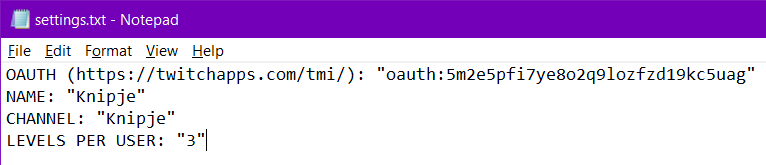
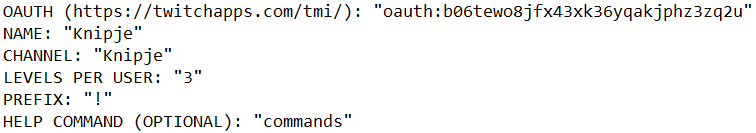
updated tutorial

diff --git a/index.html b/index.html
@@ -322,7 +322,7 @@
 				</div>
 				<div class="line" style="margin-top:-20px;"></div>
 				<p>
-					In this example the bot will be active on Knipje's channel using their own account and allow every user to submit up to 3 levels at any given moment.
+					In this example the bot will be active on Knipje's channel using their own account, allow every user to submit up to 3 levels at any given moment, listen to commands starting with ! and has a help command set to commands (so !commands in chat).
 				</p>
 				<p>
 					After you have filled in the settings entirely you can launch queuebot.exe (or any shortcuts you may have made during installation) and, if all went well, will be greeted with a menu saying there are no levels in the queue, if you do not get this window please check if you filled everything in correctly or submit a bug report <a href='https://github.com/Knipje/Portal-World/issues'>here</a>.
@@ -343,9 +343,9 @@
 								<th>Function</th>
 							</tr>
 							<tr>
-								<td>!submit</td>
-								<td>[Steam Workshop link]</td>
 								<td>!add</td>
+								<td>[Steam Workshop link]</td>
+								<td>!submit</td>
 								<td>Adds a level to the queue</td>
 							</tr>
 							<tr>
@@ -376,11 +376,13 @@
 								<td>!commands</td>
 								<td>None</td>
 								<td>None</td>
-								<td>Displays all commands</td>
+								<td>Displays all commands <b>optional</b></td>
 							</tr>
 						</table>
 					</div>
 				</p>
+				<h2>General usage</h2>
+				<p>After the bot has started up normally, viewers will be able to use all commands mentioned above. Remember that the account used for the bot cannot use commands itself. The streamer should then click the "Next Level" button to have the next level appear on screen, click "Copy Link" and paste it into the browser to subscribe to the test chamber, it should be downloaded automatically. To enter a level manually as streamer you can press the corresponding button on the interface, <b>none of the fields are mandatory to be filled in</b>. The queue should persist between uses of the bot, if you want to clear the queue either use the corresponding button or command.</p>
 				<h2>Shutting down the bot</h2>
 				<p>Please remember to shut down the interface first and the console shortly thereafter in order to ensure it closes smoothly.</p>
 			</div>
